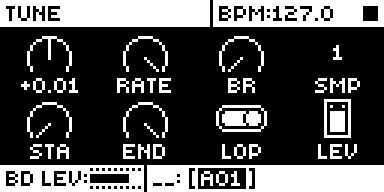
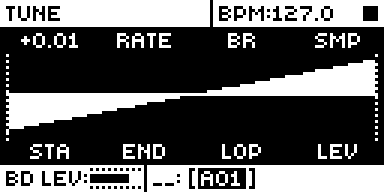
Improved SMPL 0.4.0: captures on SR43 in the waveform view

diff --git a/sdk/analog-rytm-mkii/modules/sample-rate/README.md b/sdk/analog-rytm-mkii/modules/sample-rate/README.md
@@ -16,7 +16,7 @@ The SMPL key always opens the waveform view (SMPL WAVEFORM), and a second press 
 
 RATE starts at +63 on a new or cleared sound. A sound saved with FIN at +0, stock's default and every sound saved before 0.3.0 without SMP RATE, loads with RATE 0 and does not play until RATE is turned up.
 
-![FIN's knob reading RATE](media/knob-rate.png)
+![SMPL opens the waveform view, with FIN's knob named RATE](media/knob-rate.png)
 
 ## Controls
 
